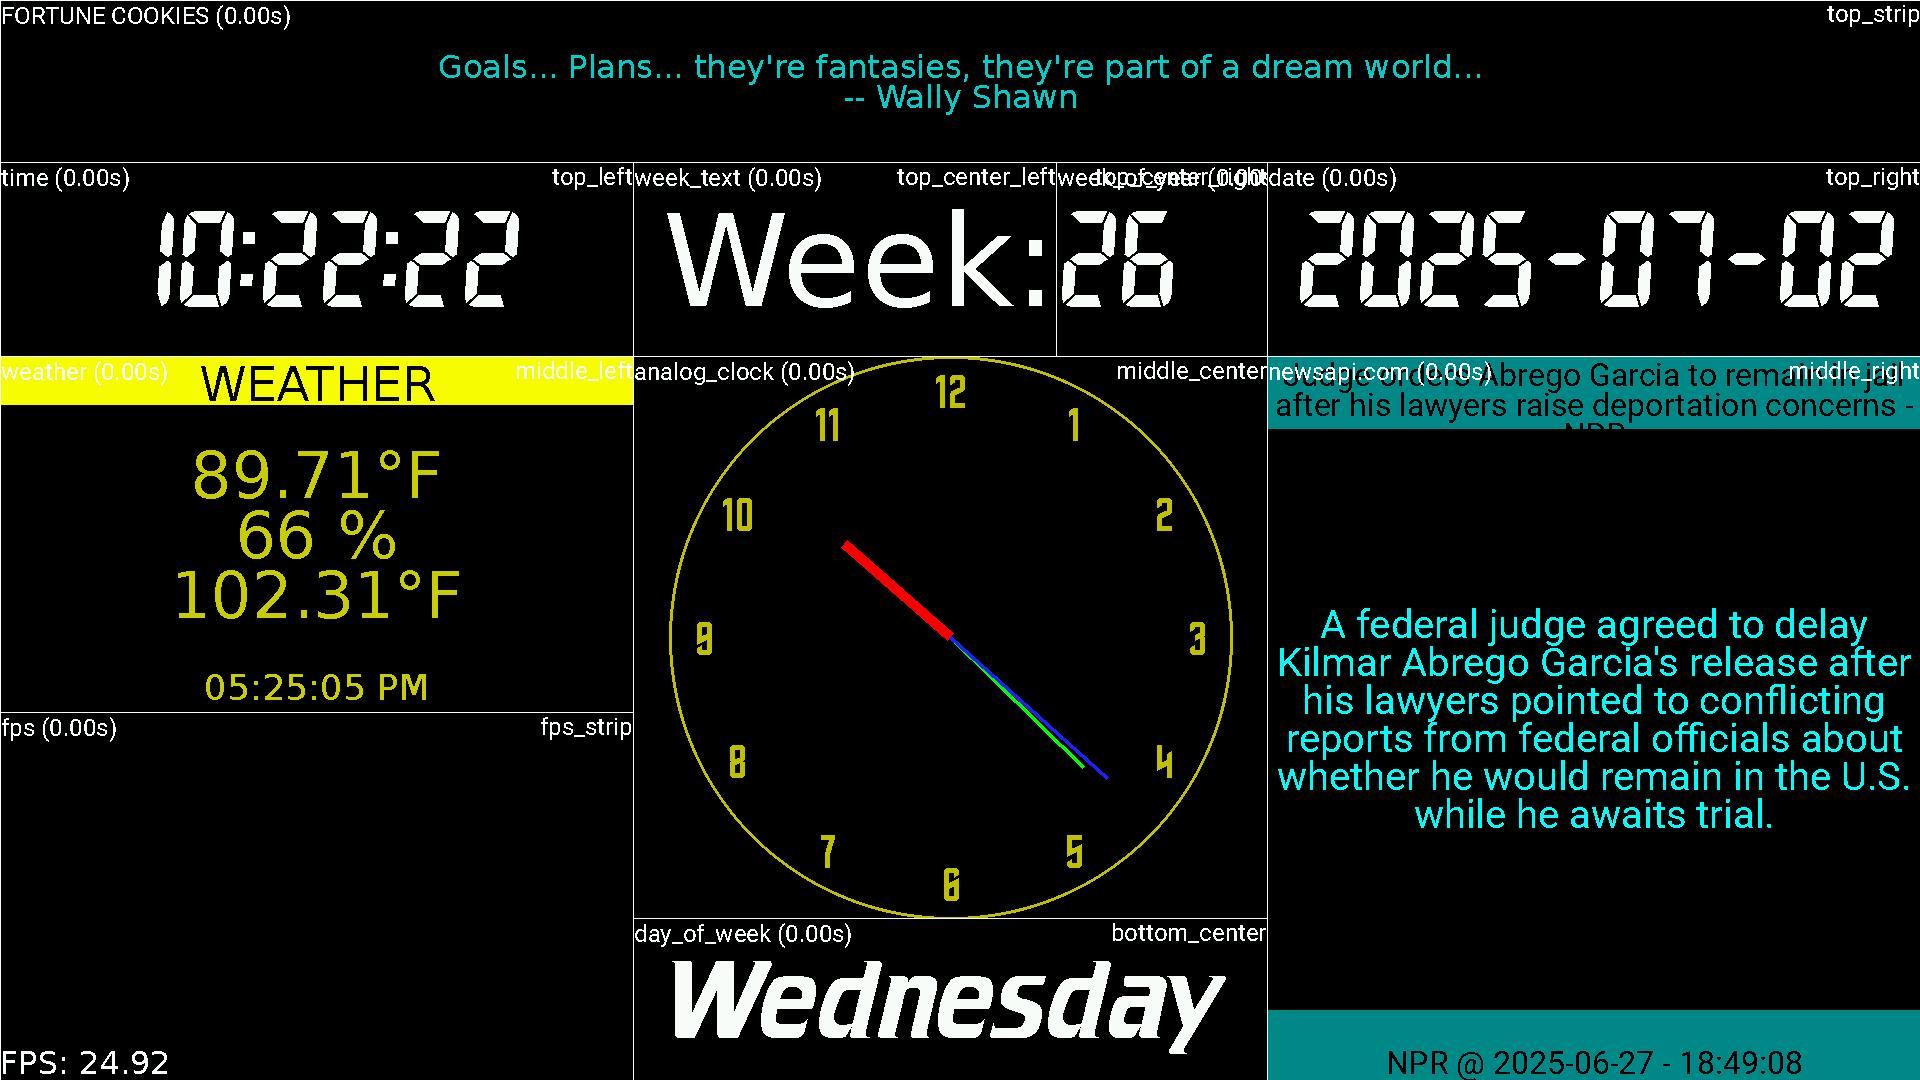
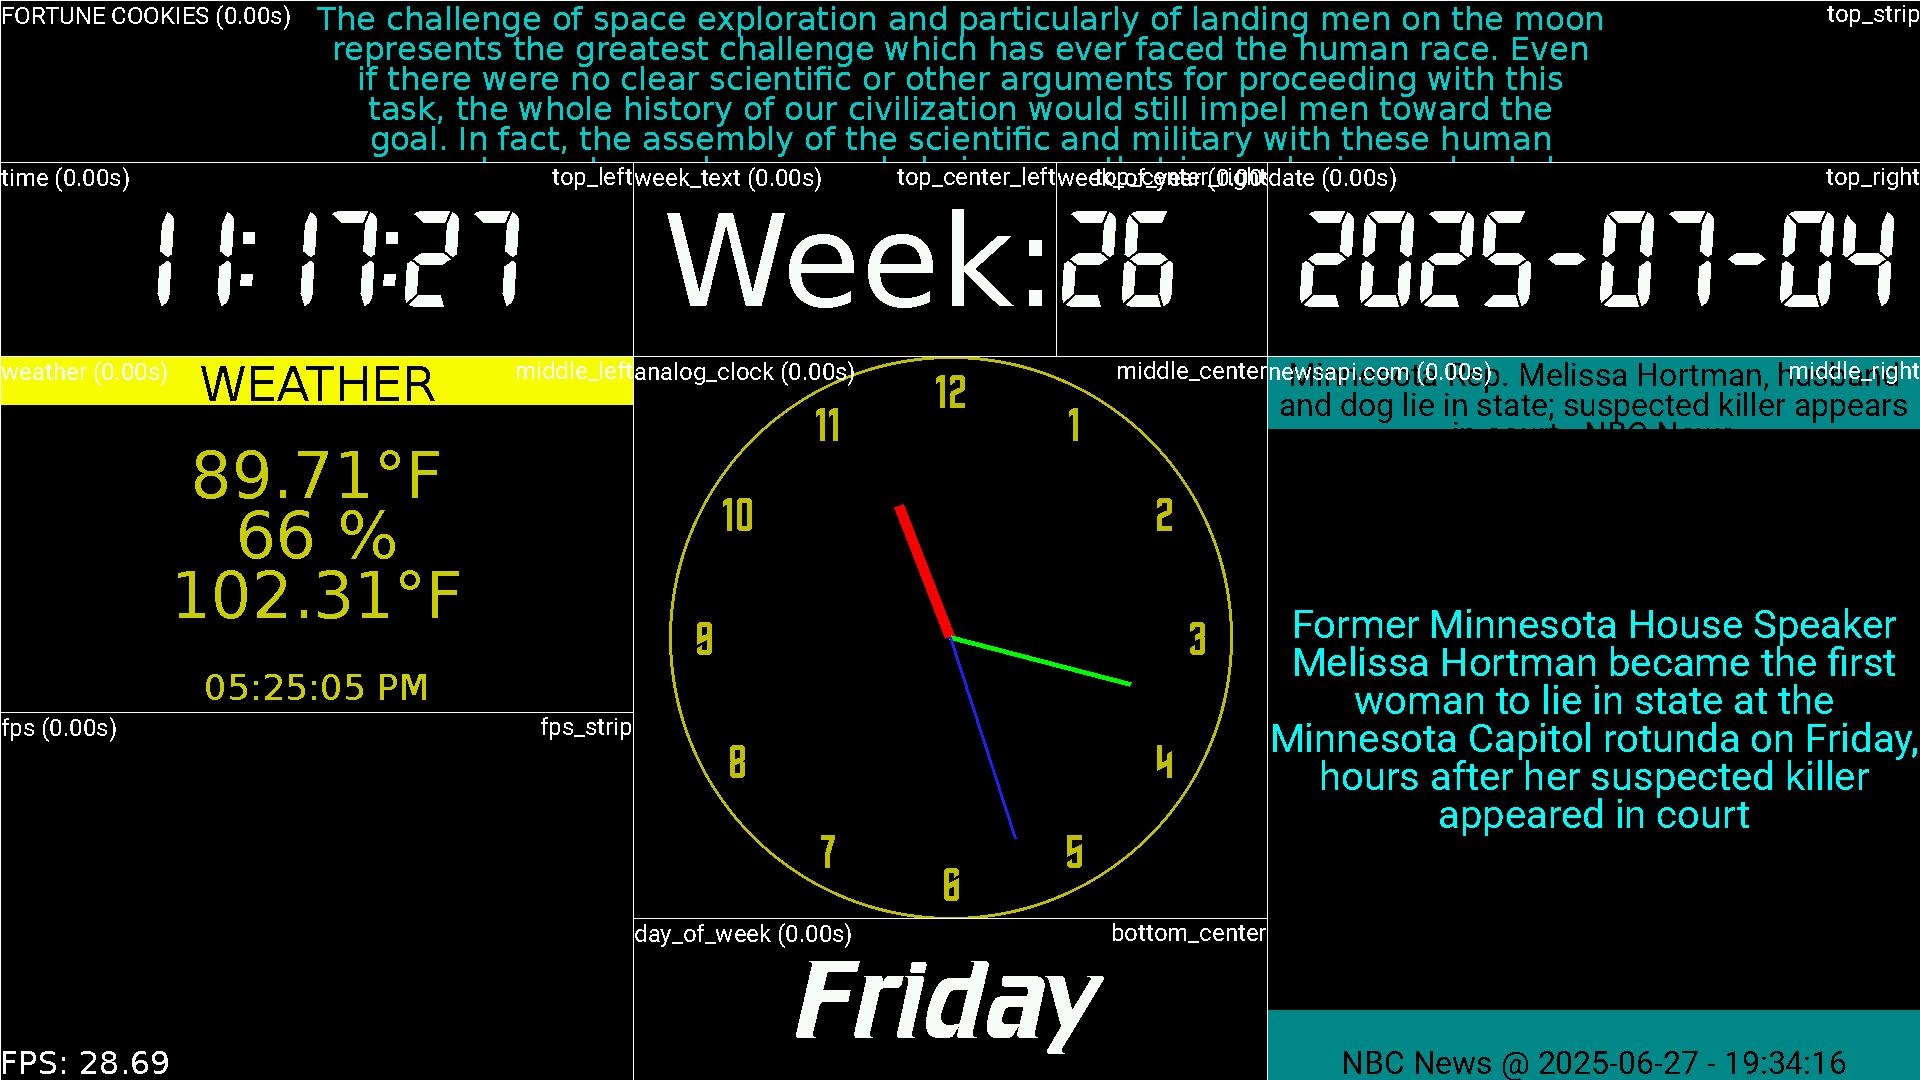
adding install-libs, web control for remote display

diff --git a/src/modules/pymirror_controller.py b/src/modules/pymirror_controller.py
@@ -13,15 +13,28 @@ class PymirrorController(PMModule):
 		return False
 
 	def onEvent(self, event):
+		print(f"Received event: {event}")
 		if event.event != "PyMirrorEvent":
 			print(f"Received unknown event type: {event.type}")
 			return
 		if event.debug in [True, False, "true", "false", "on", "off"]:
+			print(f"Received debug event: {event.debug}")
 			self.pm.debug = event.debug in [True, "true", "on"]
 			self.pm.full_render()
 		if event.refresh: 
+			print(f"Received refresh event: {event.refresh}")
 			## clear the screen on the next iteration
 			self.pm._clear_screen = True
+		## set the screen output
+		if event.remote_display in [True, False, "true", "false", "on", "off"]:
+			if event.remote_display in [False, "false", "off"]:
+				print("Received remote display event: Off")
+				# turn off the screen output (used by the web display)
+				self.screen._screen.output_file = None
+			else:
+				print("Received remote display event: True")
+				# turn on the screen output (used by the web display)
+				self.screen._screen.output_file = "./src/pmserver/static/output.jpg"
 		if event.error != None: 
 			raise Exception(f"PyMirrorController received error event:\n{event.error}")
 

diff --git a/README.md b/README.md
@@ -11,11 +11,16 @@
 - RPI OS Lite 32-bit
 - sudo apt update
 - sudo apt install git
-- add ssh private key to .ssh
+- add github ssh private key to .ssh
 - eval "$(ssh-agent -s)"
 - ssh-add ~/.ssh/id_rsa
 - ssh -T git@github.com
 - git clone git@github.com:devcybiko/pymirror.git
+? sudo apt install --no-install-recommends plymouth plymouth-themes
+? sudo apt install kmscube -y  # if not installed
+- sudo apt install fortune
+- sudo apt install libdrm-tests
+  - modetest
 
 ## Installing Libraries
 
@@ -199,3 +204,15 @@ display_rotate=0    # Set rotation if needed (0 = no rotation, 1 = 90 degrees, e
     }
 }
 ```
+
+## Special Commands
+- vcgencmd get_throttled
+- vcgencmd get_config int
+- dmesg -w
+
+
+## .bashrc
+echo "PyMirror Started"
+setterm -cursor off 
+cd git/pymirror
+./run.sh

diff --git a/TODO.md b/TODO.md
@@ -37,6 +37,7 @@
 22. Make multiple alerts cycle
 23. need to add "force" on an option for a module like "alert" so it always show up on top
 24. For "positions" allow "fps_strip": "bottom_left" so that moddefs are not tied to screen positions
+25. Different display configurations need to be detected and handled (same as device drivers, above?)
 
 ## DONE
 
